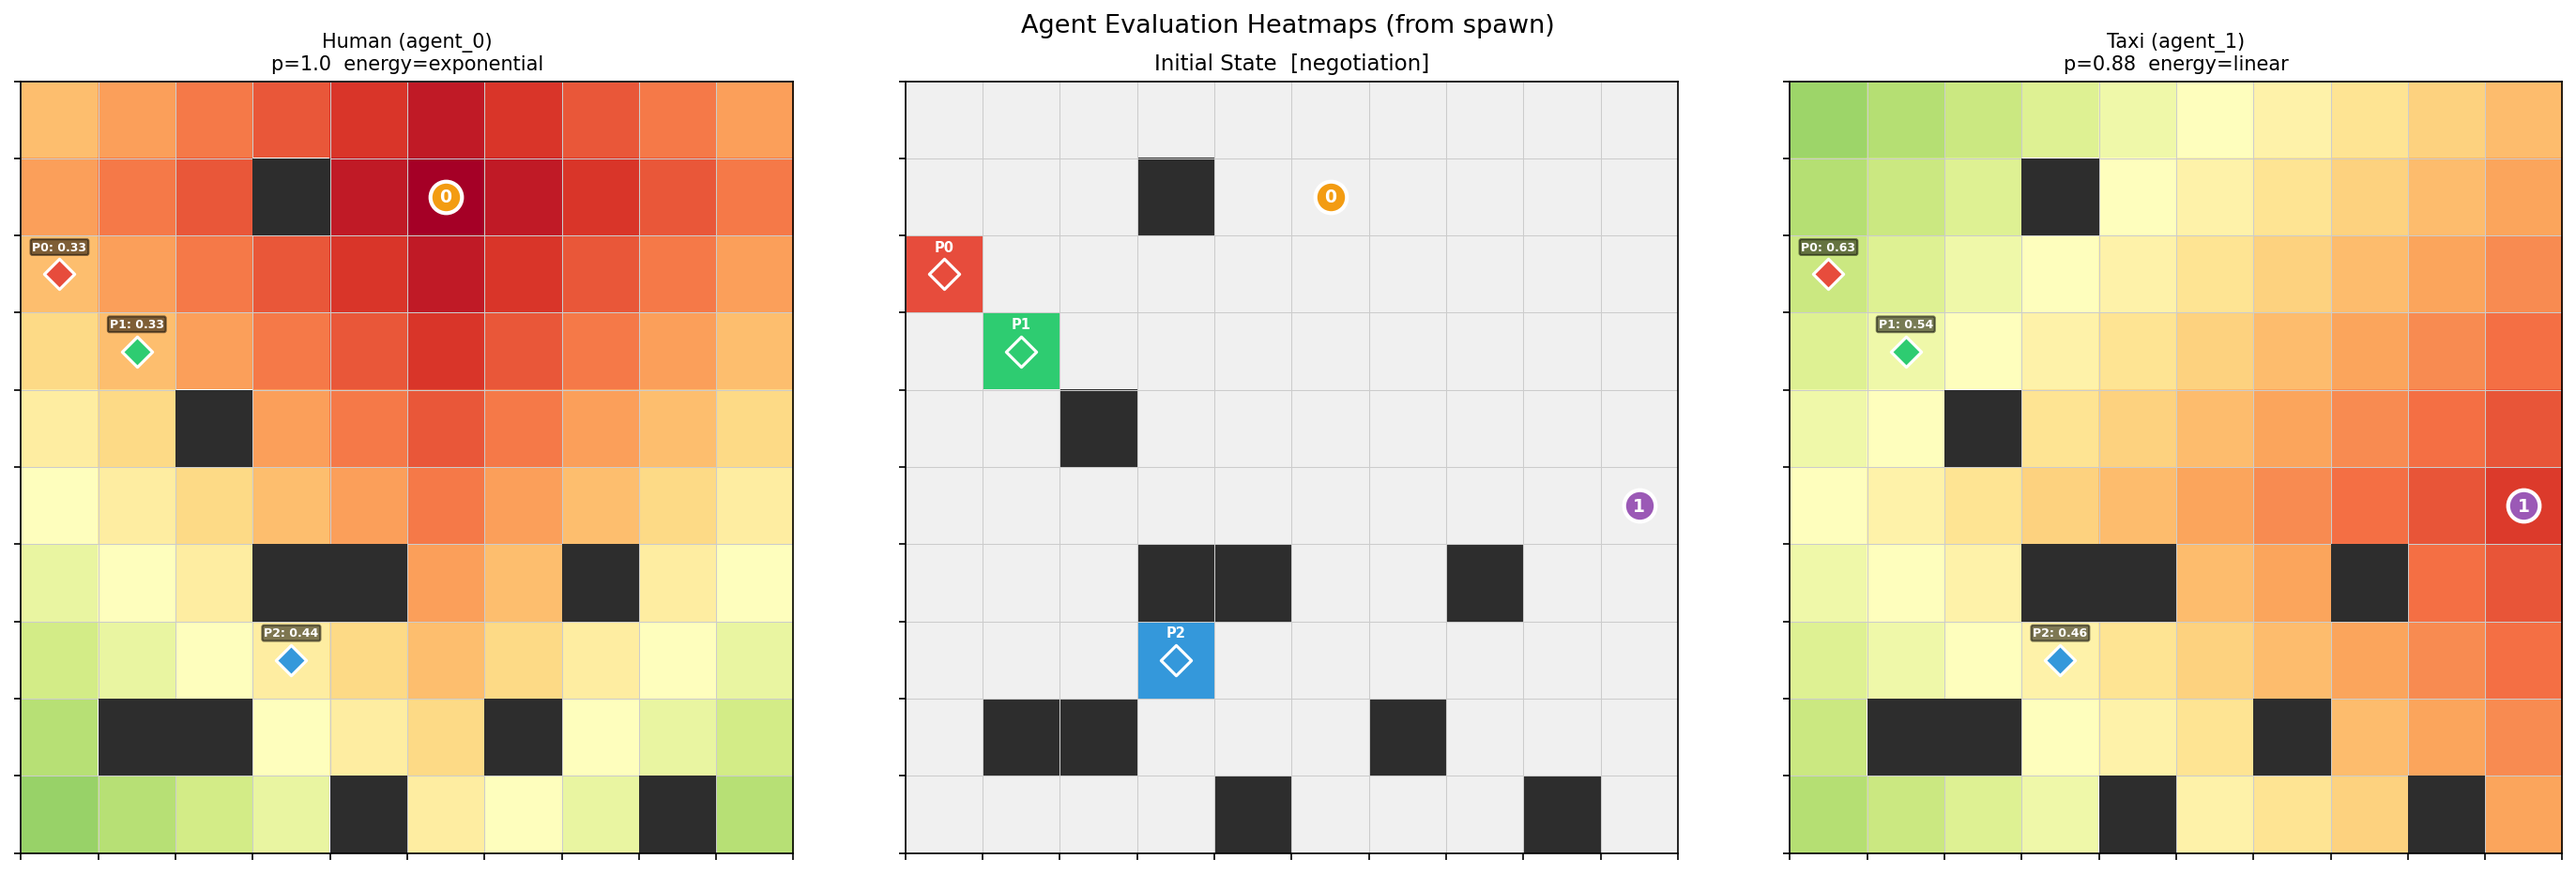
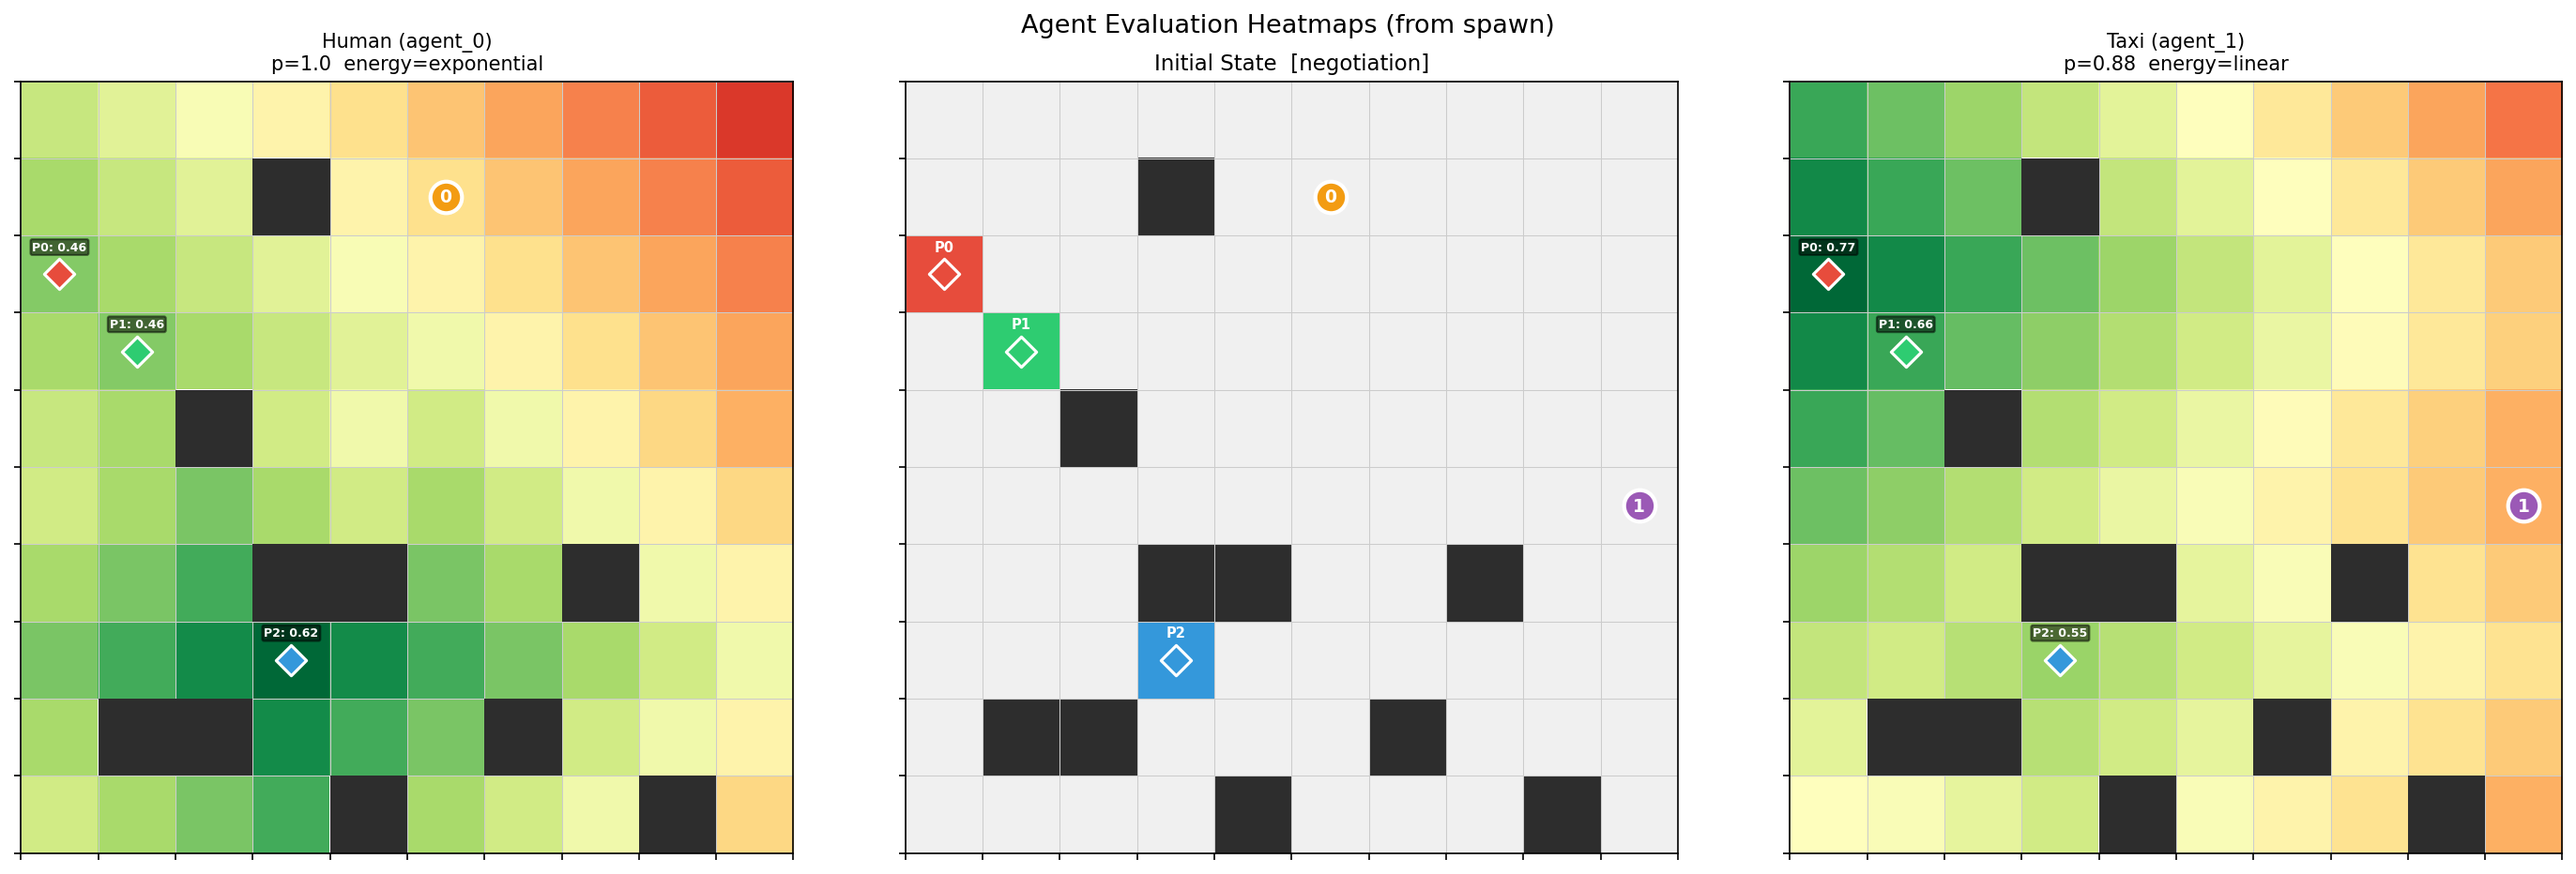
Enhance evaluation and scoring logic in the RL environment
- Updated `evaluation.py` to implement BFS for dynamic energy scoring and static privacy scoring based on agent positions.
- Introduced a new function to compute evaluation heatmaps, integrating it into the visualization process.
- Modified the gym wrapper to correctly pass parameters for POI scoring.
- Updated visualization module to reflect changes in heatmap computation and rendering, ensuring dynamic updates during episode replay.
- Revised docstrings for clarity on scoring mechanisms and heatmap generation.

diff --git a/thesslink_rl/evaluation.py b/thesslink_rl/evaluation.py
@@ -1,7 +1,16 @@
-"""Preference scoring: each agent rates every POI based on energy and privacy."""
+"""Preference scoring: each agent rates every POI based on energy and privacy.
+
+Energy score is dynamic -- computed from the agent's current position to each
+POI using BFS (respecting obstacles).
+
+Privacy score is static -- computed from the agent's spawn location to each
+POI using BFS.  A POI far from spawn is high privacy because an observer
+cannot easily infer the agent's origin.
+"""
 
 from __future__ import annotations
 
+from collections import deque
 from dataclasses import dataclass
 from pathlib import Path
 
@@ -33,12 +42,30 @@ class AgentConfig:
         )
 
 
-def manhattan(a: tuple[int, int], b: tuple[int, int]) -> int:
-    return abs(a[0] - b[0]) + abs(a[1] - b[1])
+def bfs_distances(
+    origin: tuple[int, int],
+    obstacle_map: np.ndarray,
+) -> np.ndarray:
+    """BFS shortest-path distance from *origin* to every reachable cell.
+
+    Returns a float grid where unreachable / obstacle cells are ``np.inf``.
+    """
+    dist = np.full((GRID_SIZE, GRID_SIZE), np.inf, dtype=np.float64)
+    dist[origin[0], origin[1]] = 0.0
+    queue: deque[tuple[int, int]] = deque([origin])
+    while queue:
+        r, c = queue.popleft()
+        for dr, dc in [(-1, 0), (1, 0), (0, -1), (0, 1)]:
+            nr, nc = r + dr, c + dc
+            if 0 <= nr < GRID_SIZE and 0 <= nc < GRID_SIZE:
+                if not obstacle_map[nr, nc] and dist[nr, nc] == np.inf:
+                    dist[nr, nc] = dist[r, c] + 1
+                    queue.append((nr, nc))
+    return dist
 
 
 def _energy_cost(dist: int, cfg: AgentConfig) -> float:
-    """Total energy to travel `dist` steps under the agent's energy model."""
+    """Total energy to travel *dist* steps under the agent's energy model."""
     if cfg.energy_model == "exponential":
         gamma = cfg.energy_exponential_gamma
         return cfg.energy_per_step * (1 - np.exp(-gamma * dist)) / gamma
@@ -46,19 +73,25 @@ def _energy_cost(dist: int, cfg: AgentConfig) -> float:
 
 
 def _energy_score(
-    spawn: tuple[int, int],
+    current_pos: tuple[int, int],
     poi: tuple[int, int],
+    obstacle_map: np.ndarray,
     cfg: AgentConfig,
 ) -> float:
-    """How cheap it is to reach the POI under the agent's energy model.
+    """How cheap it is to reach the POI from the current position (BFS).
 
-    Normalised against the maximum possible travel cost on the grid so
+    Normalised against the maximum possible BFS cost on the grid so
     the result is in [0, 1]: 1 = very cheap, 0 = maximally expensive.
     """
-    dist = manhattan(spawn, poi)
-    max_dist = 2 * (GRID_SIZE - 1)
-    cost = _energy_cost(dist, cfg)
-    max_cost = _energy_cost(max_dist, cfg)
+    bfs = bfs_distances(current_pos, obstacle_map)
+    dist = bfs[poi[0], poi[1]]
+    if np.isinf(dist):
+        return 0.0
+    max_dist = float(np.max(bfs[np.isfinite(bfs)]))
+    if max_dist == 0:
+        return 1.0
+    cost = _energy_cost(int(dist), cfg)
+    max_cost = _energy_cost(int(max_dist), cfg)
     if max_cost == 0:
         return 1.0
     return float(np.clip(1.0 - cost / max_cost, 0.0, 1.0))
@@ -67,21 +100,27 @@ def _energy_score(
 def _privacy_score(
     spawn: tuple[int, int],
     poi: tuple[int, int],
+    obstacle_map: np.ndarray,
 ) -> float:
-    """How well visiting this POI conceals the agent's spawn location.
+    """How well visiting this POI conceals the agent's spawn location (BFS).
 
-    A POI that is close to spawn is *low* privacy — an observer seeing the
-    agent at that POI can narrow down where it started.  A distant POI is
-    high privacy because many spawn locations could explain the visit.
+    A POI close to spawn is low privacy -- an observer can narrow down
+    the agent's origin.  A distant POI is high privacy.
 
-    Returns 0.0 (POI is right at spawn) to 1.0 (POI is maximally far).
+    Returns 0.0 (POI at spawn) to 1.0 (maximally far).
     """
-    dist = manhattan(spawn, poi)
-    max_dist = 2 * (GRID_SIZE - 1)
+    bfs = bfs_distances(spawn, obstacle_map)
+    dist = bfs[poi[0], poi[1]]
+    if np.isinf(dist):
+        return 0.0
+    max_dist = float(np.max(bfs[np.isfinite(bfs)]))
+    if max_dist == 0:
+        return 0.0
     return float(dist / max_dist)
 
 
 def compute_poi_scores(
+    current_pos: tuple[int, int],
     spawn: tuple[int, int],
     poi_positions: list[tuple[int, int]],
     obstacle_map: np.ndarray,
@@ -89,13 +128,12 @@ def compute_poi_scores(
 ) -> np.ndarray:
     """Return an array of shape (NUM_POIS,) with scores in [0, 1].
 
-    Only two factors:
-        energy_score  — can the agent afford to reach the POI?
-        privacy_score — does visiting the POI reveal the spawn location?
+    Energy is dynamic (BFS from *current_pos*), privacy is static (BFS
+    from *spawn*).
 
     Formula:
         score = (1 - p) * energy + p * privacy
-    where p = cfg.privacy_emphasis (0 = pure energy, 1 = pure privacy).
+    where p = cfg.privacy_emphasis.
     """
     assert len(poi_positions) == NUM_POIS
 
@@ -109,10 +147,61 @@ def compute_poi_scores(
     p = cfg.privacy_emphasis
     scores = np.zeros(NUM_POIS, dtype=np.float32)
     for i, poi in enumerate(poi_positions):
-        e = _energy_score(spawn, poi, cfg)
-        priv = _privacy_score(spawn, poi)
+        e = _energy_score(current_pos, poi, obstacle_map, cfg)
+        priv = _privacy_score(spawn, poi, obstacle_map)
         scores[i] = (1.0 - p) * e + p * priv
     return np.clip(scores, 0.0, 1.0)
+
+
+def compute_eval_heatmap(
+    current_pos: tuple[int, int],
+    spawn: tuple[int, int],
+    poi_positions: list[tuple[int, int]],
+    obstacle_map: np.ndarray,
+    cfg: AgentConfig,
+) -> np.ndarray:
+    """Compute a 2-D evaluation heatmap for visualization.
+
+    Each cell's value reflects how desirable it is, based on proximity
+    to the POIs weighted by their scores.  Energy is dynamic (BFS from
+    *current_pos*), privacy is static (BFS from *spawn*).
+
+    The best POI cell = 1.0; values fall off with BFS distance to each
+    POI.  Obstacles = 0.
+    """
+    poi_scores = compute_poi_scores(
+        current_pos, spawn, poi_positions, obstacle_map, cfg,
+    )
+
+    bfs_cur = bfs_distances(current_pos, obstacle_map)
+    max_bfs = float(np.max(bfs_cur[np.isfinite(bfs_cur)]))
+    if max_bfs == 0:
+        max_bfs = 1.0
+
+    poi_bfs: list[np.ndarray] = []
+    for poi in poi_positions:
+        poi_bfs.append(bfs_distances(poi, obstacle_map))
+
+    best_poi_score = float(poi_scores.max())
+    if best_poi_score == 0:
+        return np.zeros((GRID_SIZE, GRID_SIZE), dtype=np.float32)
+
+    heatmap = np.zeros((GRID_SIZE, GRID_SIZE), dtype=np.float32)
+    for r in range(GRID_SIZE):
+        for c in range(GRID_SIZE):
+            if obstacle_map[r, c]:
+                continue
+            best_val = 0.0
+            for i, poi in enumerate(poi_positions):
+                d_to_poi = poi_bfs[i][r, c]
+                if np.isinf(d_to_poi):
+                    continue
+                falloff = max(1.0 - d_to_poi / max_bfs, 0.0)
+                val = (poi_scores[i] / best_poi_score) * falloff
+                best_val = max(best_val, val)
+            heatmap[r, c] = best_val
+
+    return np.clip(heatmap, 0.0, 1.0)
 
 
 def golden_mean_reward(score_a: float, score_b: float) -> float:

diff --git a/thesslink_rl/visualization.py b/thesslink_rl/visualization.py
@@ -1,4 +1,8 @@
-"""Visualization: grid rendering, evaluation heatmaps, training curves, and episode replay."""
+"""Visualization: grid rendering, evaluation heatmaps, training curves, and episode replay.
+
+All scoring and heatmap computation is delegated to ``evaluation.py``.
+This module only handles rendering.
+"""
 
 from __future__ import annotations
 
@@ -12,7 +16,11 @@ import numpy as np
 from matplotlib.animation import FuncAnimation
 
 from .environment import GRID_SIZE, NUM_POIS, ACT_SUGGEST_BASE, GridNegotiationEnv
-from .evaluation import AgentConfig, _energy_score, _privacy_score
+from .evaluation import (
+    AgentConfig,
+    compute_eval_heatmap,
+    compute_poi_scores,
+)
 
 COLORS = {
     "empty": "#f0f0f0",
@@ -103,22 +111,7 @@ def render_grid(
     return ax
 
 
-# ── 2. Evaluation heatmaps ───────────────────────────────────────────────
-
-def _compute_eval_heatmap(
-    spawn: tuple[int, int],
-    cfg: AgentConfig,
-) -> np.ndarray:
-    """Compute the blended (energy + privacy) score for every grid cell."""
-    heatmap = np.zeros((GRID_SIZE, GRID_SIZE), dtype=np.float32)
-    p = cfg.privacy_emphasis
-    for r in range(GRID_SIZE):
-        for c in range(GRID_SIZE):
-            e = _energy_score(spawn, (r, c), cfg)
-            priv = _privacy_score(spawn, (r, c))
-            heatmap[r, c] = (1.0 - p) * e + p * priv
-    return heatmap
-
+# ── 2. Heatmap panel drawing ────────────────────────────────────────────
 
 def _draw_heatmap_panel(
     ax: plt.Axes,
@@ -127,6 +120,7 @@ def _draw_heatmap_panel(
     agent: str,
     cfg: AgentConfig,
     spawn: tuple[int, int],
+    poi_scores: np.ndarray,
     current_pos: tuple[int, int] | None = None,
     subtitle: str | None = None,
 ):
@@ -149,13 +143,12 @@ def _draw_heatmap_panel(
                 ))
 
     for i, (pr, pc) in enumerate(env.poi_positions):
-        score = heatmap[pr, pc]
         marker = "^" if env.agreed_poi == i else "D"
         size = 200 if env.agreed_poi == i else 120
         ax.scatter(pc + 0.5, pr + 0.5, marker=marker, s=size,
                    c=COLORS[poi_keys[i]], edgecolors="white",
                    linewidths=1.5, zorder=4)
-        ax.text(pc + 0.5, pr + 0.15, f"P{i}: {score:.2f}",
+        ax.text(pc + 0.5, pr + 0.15, f"P{i}: {poi_scores[i]:.2f}",
                 ha="center", va="center", fontsize=6,
                 fontweight="bold", color="white",
                 bbox=dict(boxstyle="round,pad=0.15", fc="black", alpha=0.5),
@@ -182,8 +175,10 @@ def _draw_heatmap_panel(
     ax.grid(True, color="#cccccc", linewidth=0.5)
     ax.set_xlim(0, GRID_SIZE)
     ax.set_ylim(GRID_SIZE, 0)
-    ax.set_title(subtitle or f"{cfg.name} eval (from spawn)", fontsize=10)
+    ax.set_title(subtitle or f"{cfg.name} eval", fontsize=10)
 
+
+# ── 3. Static 3-panel heatmap image ────────────────────────────────────
 
 def render_eval_heatmaps(
     env: GridNegotiationEnv,
@@ -194,7 +189,7 @@ def render_eval_heatmaps(
 ) -> plt.Figure:
     """Draw a 3-panel image: agent_0 heatmap | grid | agent_1 heatmap.
 
-    Heatmaps are computed from spawn positions and show per-POI scores.
+    Heatmaps are computed from spawn positions (current_pos = spawn).
     """
     agents = env.possible_agents
     fig, (ax_left, ax_mid, ax_right) = plt.subplots(1, 3, figsize=(19, 6))
@@ -206,9 +201,15 @@ def render_eval_heatmaps(
         ax = agent_axes[agent]
         cfg = agent_configs[agent]
         spawn = tuple(env.spawn_positions[agent])
-        heatmap = _compute_eval_heatmap(spawn, cfg)
+        heatmap = compute_eval_heatmap(
+            spawn, spawn, env.poi_positions, env.obstacle_map, cfg,
+        )
+        scores = compute_poi_scores(
+            spawn, spawn, env.poi_positions, env.obstacle_map, cfg,
+        )
         _draw_heatmap_panel(
             ax, heatmap, env, agent, cfg, spawn,
+            poi_scores=scores,
             subtitle=f"{cfg.name} ({agent})\np={cfg.privacy_emphasis}  energy={cfg.energy_model}",
         )
 
@@ -224,7 +225,7 @@ def render_eval_heatmaps(
     return fig
 
 
-# ── 3. Training curves ──────────────────────────────────────────────────
+# ── 4. Training curves ──────────────────────────────────────────────────
 
 def plot_training_curves(
     stats: Dict[str, list],
@@ -267,7 +268,7 @@ def plot_training_curves(
     plt.close(fig)
 
 
-# ── 3. Episode replay animation ─────────────────────────────────────────
+# ── 5. Episode replay animation ─────────────────────────────────────────
 
 def replay_episode(
     frames: list[dict],
@@ -280,26 +281,21 @@ def replay_episode(
     """Animate an episode from a list of frame snapshots.
 
     If *agent_configs* is provided, each frame renders the grid in the
-    centre with evaluation heatmaps for each agent on either side (3-panel
-    layout).  Heatmaps are fixed from the spawn position and do not change
-    as agents move.  Otherwise falls back to a single-panel grid view.
+    centre with **dynamic** evaluation heatmaps for each agent on either
+    side (3-panel layout).  Heatmaps are recomputed every frame from the
+    agent's current position (energy changes) while privacy stays fixed
+    from spawn.
     """
     has_heatmaps = agent_configs is not None
     agents = env.possible_agents
-    poi_keys = ["poi_0", "poi_1", "poi_2"]
 
     if has_heatmaps:
         fig, axes = plt.subplots(1, 3, figsize=(19, 6))
         ax_left, ax_mid, ax_right = axes
         agent_axes = {agents[0]: ax_left, agents[1]: ax_right}
-
         spawn_positions = frames[0].get(
             "spawn_positions", frames[0]["agent_positions"]
         )
-        heatmaps: Dict[str, np.ndarray] = {}
-        for agent in agents:
-            spawn = tuple(spawn_positions[agent])
-            heatmaps[agent] = _compute_eval_heatmap(spawn, agent_configs[agent])
     else:
         fig, ax_mid = plt.subplots(1, 1, figsize=(6, 6))
 
@@ -320,8 +316,17 @@ def replay_episode(
                 cfg = agent_configs[agent]
                 spawn = tuple(spawn_positions[agent])
                 cur_pos = tuple(frame["agent_positions"][agent])
+                heatmap = compute_eval_heatmap(
+                    cur_pos, spawn, env.poi_positions,
+                    env.obstacle_map, cfg,
+                )
+                scores = compute_poi_scores(
+                    cur_pos, spawn, env.poi_positions,
+                    env.obstacle_map, cfg,
+                )
                 _draw_heatmap_panel(
-                    ax, heatmaps[agent], env, agent, cfg, spawn,
+                    ax, heatmap, env, agent, cfg, spawn,
+                    poi_scores=scores,
                     current_pos=cur_pos,
                 )
 

diff --git a/thesslink_rl/gym_wrapper.py b/thesslink_rl/gym_wrapper.py
@@ -109,7 +109,8 @@ class GridNegotiationGymEnv(gym.Env):
             spawn = tuple(self._env.spawn_positions[agent])
             cfg = self._agent_configs.get(agent)
             scores = compute_poi_scores(
-                spawn, self._env.poi_positions, self._env.obstacle_map, cfg
+                spawn, spawn, self._env.poi_positions,
+                self._env.obstacle_map, cfg,
             )
             self._poi_scores[agent] = scores
             self._env.poi_scores[agent] = scores
